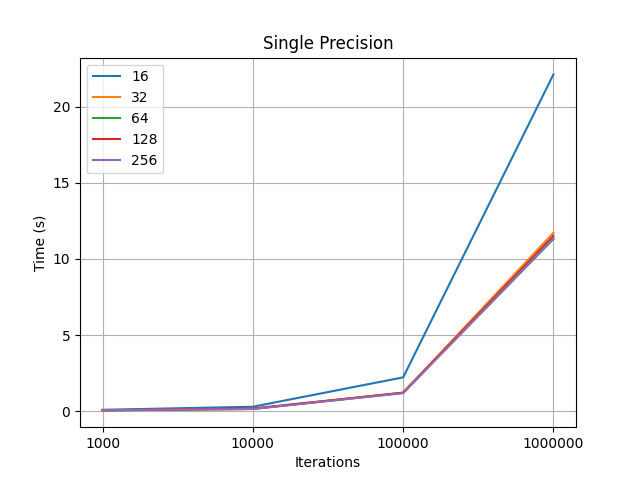
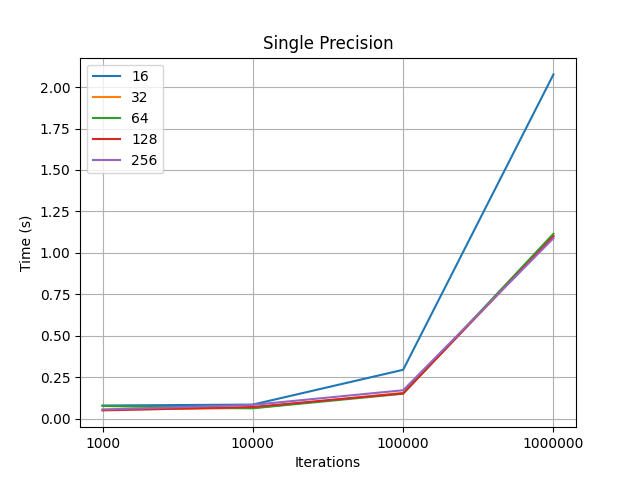
fixed single precision graphs

diff --git a/Assignment_2/report/graphs/ex_bonus_bench.py b/Assignment_2/report/graphs/ex_bonus_bench.py
@@ -65,6 +65,6 @@ plot(doubleTime, "Double Precision", "Iterations", "Time (s)", "ex_bonus_double"
 plot(doubleTime, "Double Precision Logarithmic", "Iterations", "Time Logarithmic (s)", "ex_bonus_double", logscale=True)
 plot(doubleError, "Double Precision", "Iterations", "Error (%)", "ex_bonus_double_error")
 
-plot(doubleTime, "Single Precision", "Iterations", "Time (s)", "ex_bonus_single")
-plot(doubleTime, "Single Precision Logarithmic", "Iterations", "Time Logarithmic (s)", "ex_bonus_single", logscale=True)
-plot(doubleError, "Single Precision", "Iterations", "Error (%)", "ex_bonus_single_error")
+plot(singleTime, "Single Precision", "Iterations", "Time (s)", "ex_bonus_single")
+plot(singleTime, "Single Precision Logarithmic", "Iterations", "Time Logarithmic (s)", "ex_bonus_single", logscale=True)
+plot(singleError, "Single Precision", "Iterations", "Error (%)", "ex_bonus_single_error")
